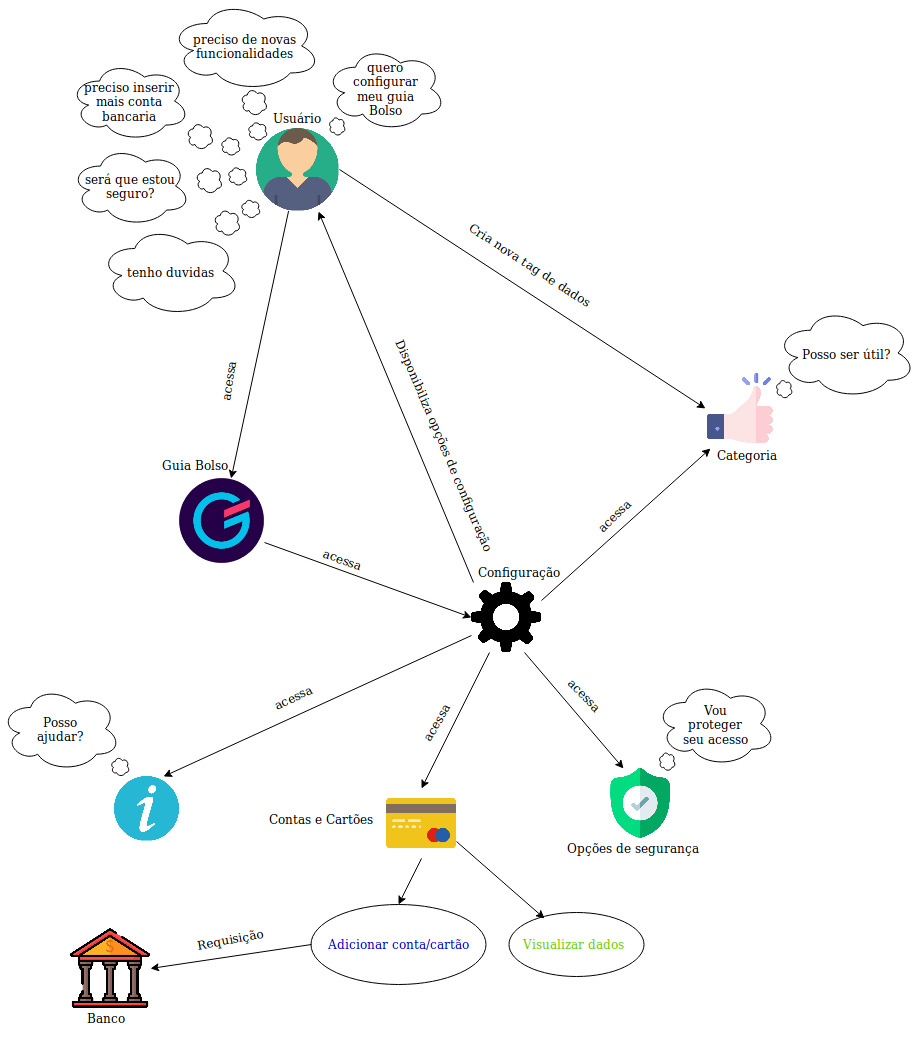
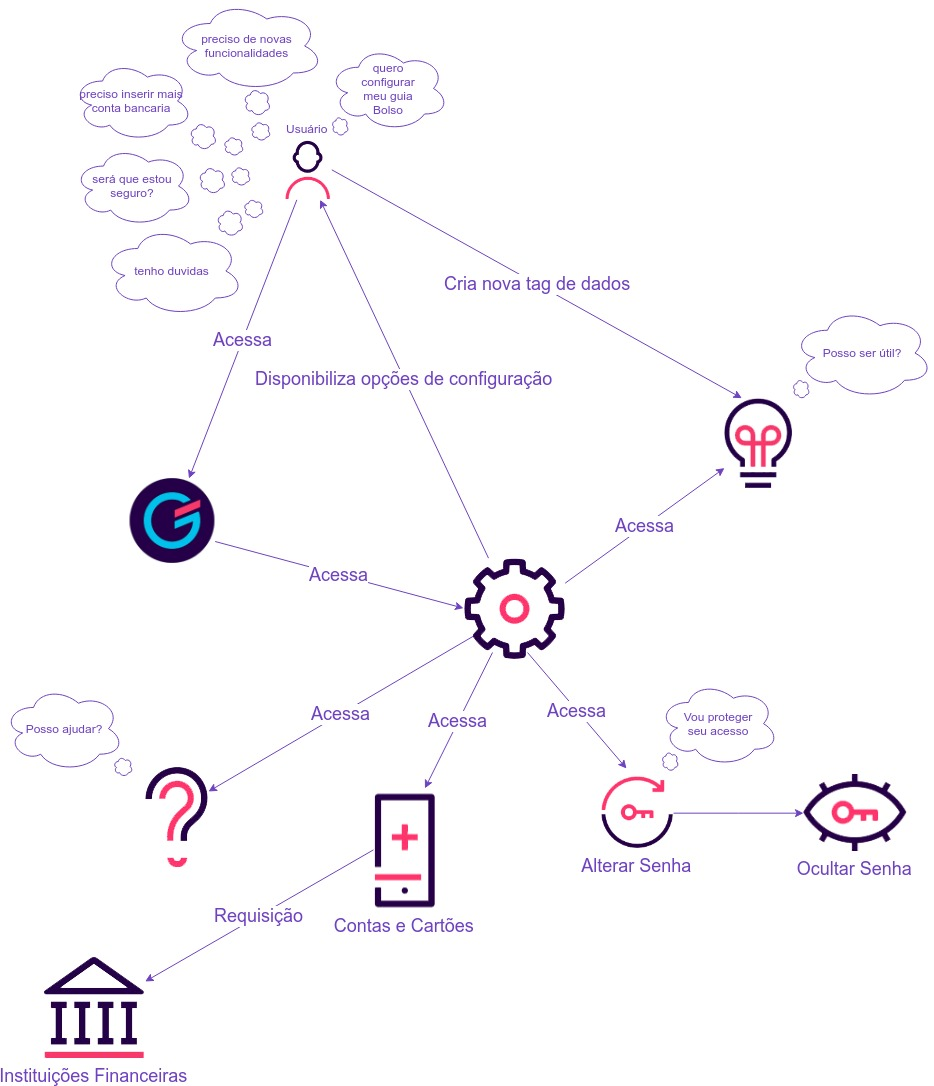
Ajustando rich picture e argumento
Passando para o padrão definido

diff --git a/docs/pre-rastreabilidade/RichPicture.md b/docs/pre-rastreabilidade/RichPicture.md
@@ -27,7 +27,7 @@ Versão 1.0
 <p align="justify">Este RichPicture ilustra a usabilidade da plataforma Guiabolso, a interações com usuário e interações com agentes externos.
 
 Versão 1.0
-[ ![RP02](./../img/rich_picture_usabilidade.png) ](./../img/rich_picture_usabilidade.png)
+[ ![RP02](./../img/rich_picture_usabilidade.jpg) ](./../img/rich_picture_usabilidade.jpg)
 
 | Data | Versão | Descrição | Autor |
 |--|--|--|--|
